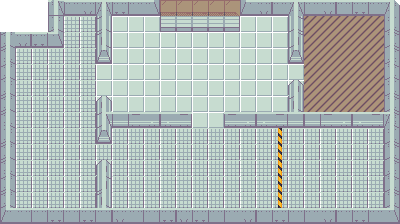
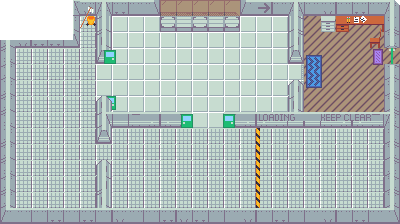
feat: Update CustomerManager and GameManager to track daily sales and best day; enhance MainUI to display money statistics; add new item definitions and assets

diff --git a/Hierachy.py b/Hierachy.py
@@ -12,8 +12,6 @@ from GameCycle.OpenStoreSwitch import OpenStoreSwitch
 from UI.MainUI import MainUI
 from Player.PlayerController import PlayerController
 from Inventory.Inventory import Inventory
-from Inventory.Item import Item
-from Inventory import ItemDefinition
 from Player.PlayerInventoryManager import PlayerInventoryManager
 
 def construct_hierachy():
@@ -52,8 +50,8 @@ def construct_hierachy():
     mainUIText = main_UI_GO.add_component(TextRenderer)
     main_UI = main_UI_GO.add_component(MainUI)
     main_UI.text = mainUIText
-    main_UI_GO.pos_x = .5
-    main_UI_GO.pos_y = .5
+    main_UI_GO.pos_x = .25
+    main_UI_GO.pos_y = .25
     main_UI.game_manager = game_manager
     main_UI.switch = switch
 
@@ -73,7 +71,7 @@ def spawn_customer_position(position: Vector2, gameManager: GameManager.GameMana
     customer_renderer.order = 9
     customer_manager_GO.pos_x = position.x + .5
     customer_manager_GO.pos_y = position.y + .5
-    customer_renderer.offset = Vector2(1,1)
+    customer_renderer.offset = Vector2(1,1.1)
     bubble_renderer = customer_manager_GO.add_component(SpriteRenderer)
     customer_manager.bubbleRenderer = bubble_renderer
     bubble_renderer.offset = Vector2(1,1)
@@ -103,9 +101,11 @@ def spawn_player(position: Vector2):
 
 # map wall collisions
 collider_positions: list[Vector2] = [Vector2(0,0), Vector2(1,0),Vector2(24,0), Vector2(0,13), Vector2(6,1), Vector2(6,6), 
-                                    Vector2(6,10),Vector2(7,7), Vector2(14,7), Vector2(18,1), Vector2(18,5)]
+                                    Vector2(6,10),Vector2(7,7), Vector2(14,7), Vector2(18,1), Vector2(18,5), Vector2(1,1), 
+                                    Vector2(20,1), Vector2(23,2)]
 collider_sizes: list[Vector2] = [Vector2(1,14), Vector2(24,1), Vector2(1,14), Vector2(25,1), Vector2(1,3), Vector2(1,3), 
-                                Vector2(1,3), Vector2(5,1), Vector2(10,1), Vector2(1,3), Vector2(1,2)]
+                                Vector2(1,3), Vector2(5,1), Vector2(10,1), Vector2(1,3), Vector2(1,2), Vector2(4,2),
+                                Vector2(4,1), Vector2(1,1)]
 
 
 def spawn_map_colliders():

diff --git a/GameCycle/CustomerManager.py b/GameCycle/CustomerManager.py
@@ -36,6 +36,9 @@ class CustomerManager(MonoBehavior):
             if inventory != None:
                 if inventory.item_held.name == self.requested_item.name:
                     self.game_manager.money += inventory.item_held.value
+                    self.game_manager.money_today += inventory.item_held.value
+                    self.game_manager.items_in_stock.remove(self.requested_item)
+                    self.game_manager.item_just_sold = self.requested_item
                     self.gameObject.gameObject_manager.destroy(inventory.gameObject)
                     self.itemRenderer.set_sprite(None)
                     self.bubbleRenderer.set_sprite(None)
@@ -46,7 +49,7 @@ class CustomerManager(MonoBehavior):
             # generate new item
             self.reset_timer += Time.delta_time
             if self.requested_item == None and self.reset_timer > self.reset_time:
-                self.requested_item = random.choice(list(ItemDefinition.ITEM_DEFINITIONS.values()))
+                self.requested_item = self.game_manager.random_item_in_stock()
                 self.itemRenderer.set_sprite(self.requested_item.sprite_tag)
                 self.bubbleRenderer.set_sprite("bubble")
                 self.personRenderer.set_sprite(f"customer{random.randint(0,3)}")
@@ -54,10 +57,13 @@ class CustomerManager(MonoBehavior):
             elif self.requested_item != None:
                 self.reset_timer = 0
             pass
-        elif self.game_manager.game_state == GameManager.Game_State.Evening:
+        else:
             self.requested_item = None
             self.itemRenderer.set_sprite(None)
+            self.bubbleRenderer.set_sprite(None)
+            self.personRenderer.set_sprite(None)
             self.reset_timer = 0
+        
 
 
     def find_type_closest_to(self, position: Vector2):

diff --git a/GameCycle/GameManager.py b/GameCycle/GameManager.py
@@ -18,22 +18,32 @@ class Game_State(Enum):
 class GameManager(MonoBehavior):
 
     game_state: Game_State = None
-    money: int = 0
-    MIN_ITEMS_ON_DELIVERY: int = 20
-    MAX_ITEMS_ON_DELIVERY: int = 30
+    money: float = 0
+    money_today: float = 0
+    best_day: float = 0
+    item_just_sold: ItemDefinition.ItemDefinition = None
+    MIN_ITEMS_ON_DELIVERY: int = 30
+    MAX_ITEMS_ON_DELIVERY: int = 40
+    items_in_stock: list[ItemDefinition.ItemDefinition] = []
 
     def switch_state(self,state: Game_State):
         if self.game_state == state:
             return
         self.game_state = state
         if state == Game_State.Morning:
+            self.item_just_sold = None
+            if self.money_today > self.best_day:
+                self.best_day = self.money_today
             # spawn delivered items in delivery zone
             number_of_items_to_deliver = random.randint(self.MIN_ITEMS_ON_DELIVERY,self.MAX_ITEMS_ON_DELIVERY)
             for i in range(number_of_items_to_deliver):
                 random_item: ItemDefinition.ItemDefinition = random.choice(list(ItemDefinition.ITEM_DEFINITIONS.values()))
-                position = Vector2(18 + i // 5,8 + i % 5)
+                self.items_in_stock.append(random_item)
+                position = Vector2(16 + i // 5,8 + i % 5)
                 if self.can_place_here(position + Vector2(.5,.5)):
                     self.spawn_item(random_item,position)
+        elif state == Game_State.Service:
+            self.money_today = 0
 
 
     def spawn_item(self,item_def: ItemDefinition.ItemDefinition, position: Vector2):
@@ -63,4 +73,6 @@ class GameManager(MonoBehavior):
 
         return True
 
+    def random_item_in_stock(self):
+        return self.items_in_stock[random.randrange(0,len(self.items_in_stock))]
 

diff --git a/Inventory/ItemDefinition.py b/Inventory/ItemDefinition.py
@@ -20,16 +20,73 @@ ITEM_DEFINITIONS = {
 
     "banana": ItemDefinition(
         "banana",
-        "Banana",
+        "Pepper",
         3.0,
         "banana"
     ),
+
+    "book": ItemDefinition(
+                "book",
+                "Book",
+                14.30,
+                "book"
+            ),
+
+    "bread": ItemDefinition(
+                    "bread",
+                    "Bread",
+                    2.5,
+                    "bread"
+                ),
+
+    "candy": ItemDefinition(
+                    "candy",
+                    "Candy",
+                    5.0,
+                    "candy"
+                ),
+
+    "chips": ItemDefinition(
+                    "chips",
+                    "Chips",
+                    8.0,
+                    "chips"
+                ),
+
+    "circuit": ItemDefinition(
+                    "circuit",
+                    "Circuit",
+                    20.0,
+                    "circuit"
+                ),
+
+    "python": ItemDefinition(
+                        "python",
+                        "Python",
+                        3.14,
+                        "python"
+                    ),
+
+    "soda": ItemDefinition(
+                            "soda",
+                            "Soda",
+                            5.0,
+                            "soda"
+                        ),
 
     "strawberry": ItemDefinition(
         "strawberry",
         "Strawberry",
         7.0,
         "strawberry"
-    )
+    ),
+
+    "water": ItemDefinition(
+                                "water",
+                                "Water",
+                                3.0,
+                                "water"
+                            )
+    
 }
 

diff --git a/Main.py b/Main.py
@@ -1,5 +1,5 @@
 '''
-AI Assisted
+Manual
 '''
 import pygame
 from pygame import Vector2
@@ -9,7 +9,6 @@ from GameObjects import GameObjects
 from Core.Time import Time
 from Core.Screen import Screen
 from Core.Input import Input
-from Core.Transform import Transform
 from Rendering.SpriteRenderer import SpriteRenderer
 from Physics.Physics import Physics
 
@@ -17,6 +16,8 @@ from Physics.Physics import Physics
 pygame.init()
 Screen.current = pygame.display.set_mode(Screen.current_resolution, pygame.RESIZABLE)
 pygame.display.set_caption("Shop Keeper")
+icon = pygame.image.load("Assets/icon.png")
+pygame.display.set_icon(icon)
 clock = pygame.time.Clock()
 running = True
 
@@ -42,30 +43,6 @@ while running:
 
     # Update Input Handler
     Input.collect_inputs(events)
-
-    # Draw Debug Grid Pattern
-
-    # AI Generated
-    '''
-    interval: float = Transform.world_to_screen_1D(1)
-    vertical_iterations = int(Screen.current.height / interval) + 1
-    horizontal_iterations = int(Screen.current.width / interval) + 1
-    grid_thickness: int = 2
-    for i in range(0,horizontal_iterations):
-        rect = pygame.Rect(i * interval, 0, grid_thickness, Screen.current.height)
-        color: str = "gray50"
-        if(i % 5 == 0): 
-            color = "gray90"
-        pygame.draw.rect(Screen.current,color,rect)
-
-    for i in range(0,vertical_iterations):
-            rect = pygame.Rect(0, i * interval, Screen.current.width, grid_thickness)
-            color: str = "gray50"
-            if(i % 5 == 0): 
-                color = "gray90"
-            pygame.draw.rect(Screen.current,color,rect)
-            '''
-    # End AI Generated
 
     # Update MonoBehaviors
     mono_manager.update_mono_thread()

diff --git a/UI/MainUI.py b/UI/MainUI.py
@@ -24,5 +24,14 @@ class MainUI(MonoBehavior):
             self.display_text += f"Time left: {self.switch.time_left_in_day:.1f}"
         elif self.game_manager.game_state == GameManager.Game_State.Evening:
             self.display_text += "Shop Closed for Day"
-        self.display_text += f"\nMoney: ${self.game_manager.money}"
+        self.display_text += f"\nMoney: ${self.game_manager.money:.2f}"
+
+        if self.game_manager.game_state == GameManager.Game_State.Morning:
+            self.display_text += f"\nMoney Yesterday: ${self.game_manager.money_today:.2f}"
+        else:
+            self.display_text += f"\nMoney Today: ${self.game_manager.money_today:.2f}"
+
+        self.display_text += f"\nBest Day: ${self.game_manager.best_day:.2f}"
+        if self.game_manager.item_just_sold is not None:
+            self.display_text += f"\n{self.game_manager.item_just_sold.name} sold for ${self.game_manager.item_just_sold.value:.2f}"
         self.text.set_text(self.display_text)
